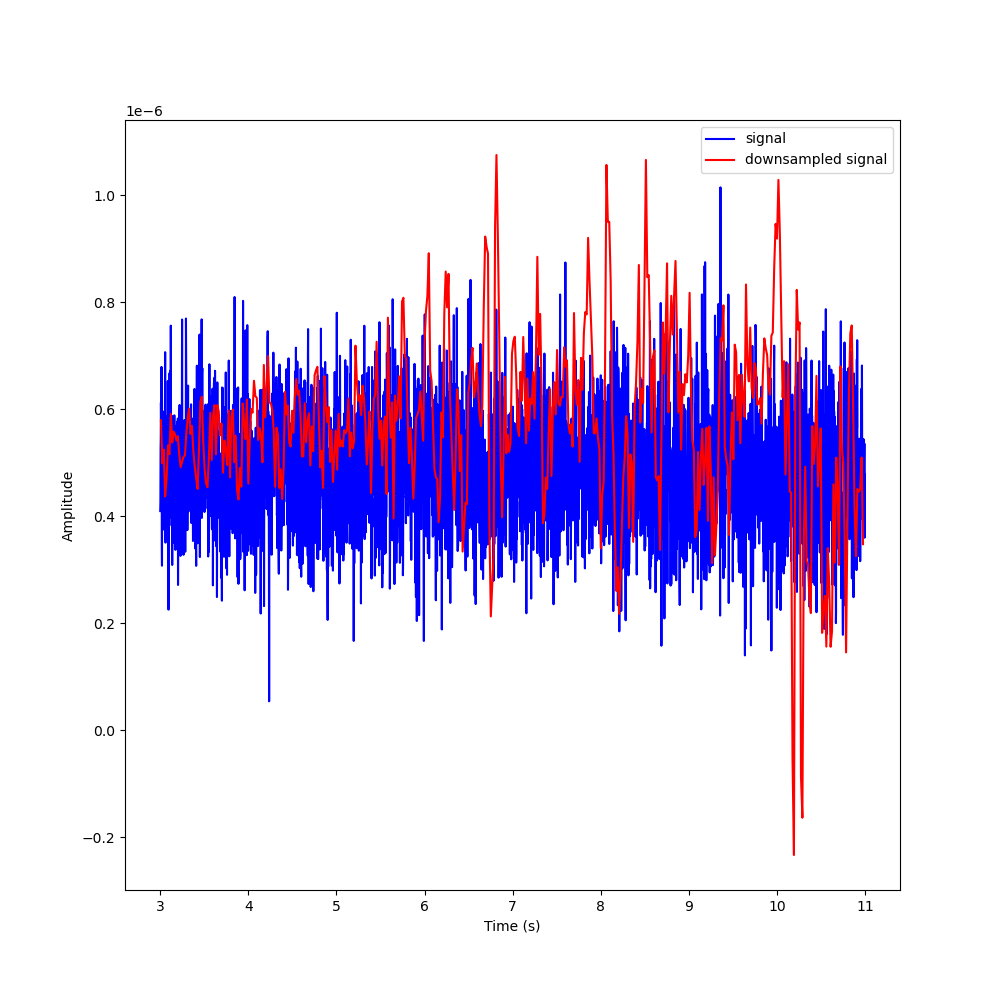
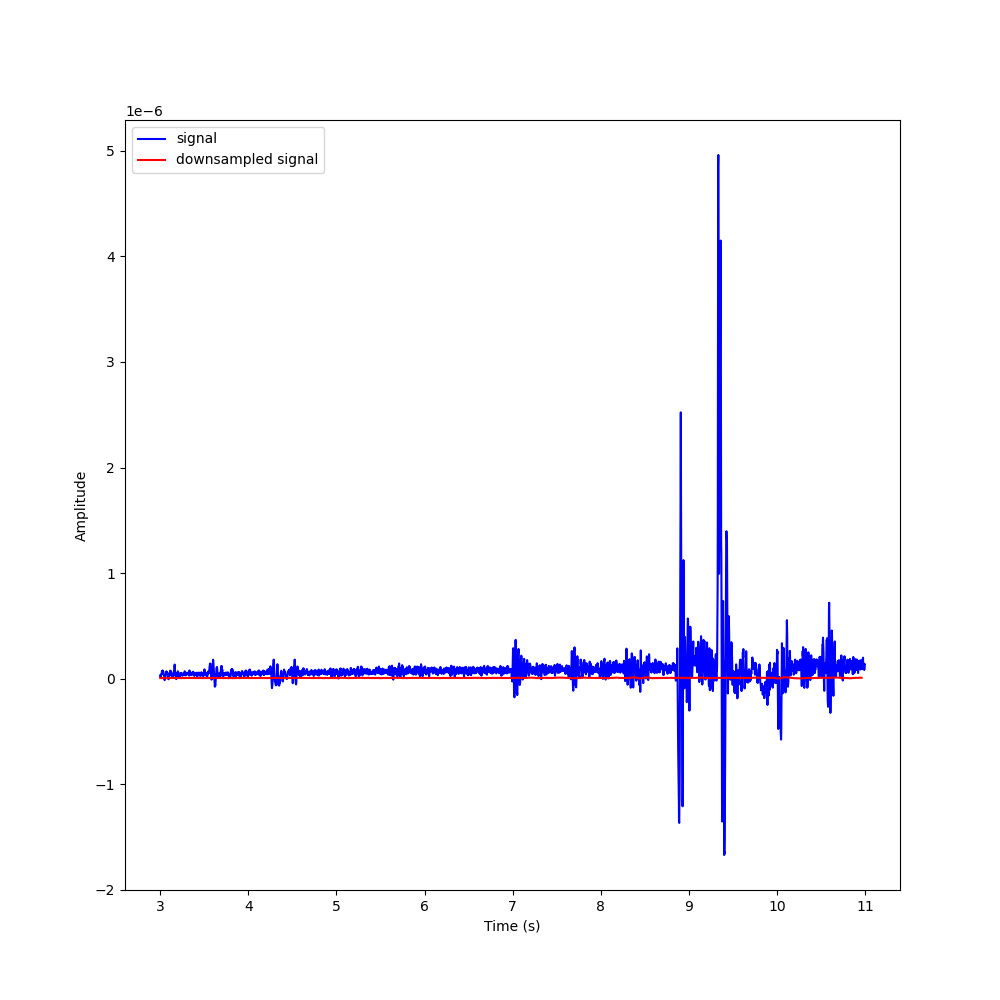
working on adding edge tapering to lowpass

diff --git a/SourceCode/lowpassDownsample.py b/SourceCode/lowpassDownsample.py
@@ -29,42 +29,36 @@ def runLowpassOnly(integerDownsampleFactor, filterOrder):
     time = np.linspace(0, sampling_duration, number_of_time_samples, endpoint=False);
     #downsampled_data = lowpassData[::integerDownsampleFactor);
     #downsampled_data = scipy.signal.decimate(lowpassData,integerDownsampleFactor,n=filterOrder);
-    print(cutoff_freq, file=sys.stderr);
+    #print(cutoff_freq, file=sys.stderr);
     return (time, data_T, lowpassData,number_of_time_samples,sampling_duration,sampling_freq)
 
-
-def runLowpassAndDownsample(integerDownsampleFactor):
+def fetchT15LocalServerData():
     client = server_func.setup_server();
     data, md = server_func.get_data(client,1);
     dT = md['dT'];
     sampling_freq = 1/dT;
-    data_T = np.transpose(data);
-    number_of_time_samples = md['nT'];
-    sampling_duration = number_of_time_samples * dT;
-    time = np.linspace(0, sampling_duration, number_of_time_samples, endpoint=False);
-    downsampled_signal = scipy.signal.decimate(data,integerDownsampleFactor);
-    newNumSamples = len(downsampled_signal[0]);
-    downsampled_time = np.linspace(0,sampling_duration,newNumSamples, endpoint=False);
-    return (time,data_T,downsampled_time, downsampled_signal,sampling_freq)
+    number_time_samples = md['nT'];
+    sampling_duration = number_time_samples * dT;
+    return (np.transpose(data), sampling_duration, number_time_samples,sampling_freq)  
 
-def runLowpassAndDownsampleWithFile(integerDownsampleFactor, fileName):
-    f = h5py.File(fileName, 'r')
-    #print list of attributes/metadata
-    #print(f.attrs.keys())
-    #print(f.keys())
-    group = f['data_product']
-    data = group['data'][()]
-    #print(data.shape)
-    dT = f.attrs['dt_computer']
-    #print(dT)
-    number_of_time_samples = f.attrs['nt']
-    #print(nT)
+def getFileData(fileName):
+    f = h5py.File(fileName, 'r');
+    group = f['data_product'];
+    data = group['data'][()];
+    dT = f.attrs['dt_computer'];
     sampling_freq = 1/dT;
+    number_time_samples = f.attrs['nt'];
+    sampling_duration = number_time_samples * dT;
+    return (data, sampling_duration, number_time_samples,sampling_freq)  
+
+def runLowpassAndDownsample(data, sampling_duration, number_time_samples, sampling_freq, integerDownsampleFactor):
     downsampled_sampling_freq = sampling_freq/integerDownsampleFactor
-    #print(sampling_freq)
-    data_T = np.transpose(data)
-    sampling_duration = number_of_time_samples * dT;
-    time = np.linspace(0, sampling_duration, number_of_time_samples, endpoint=False);
+    time = np.linspace(0, sampling_duration, number_time_samples, endpoint=False);
+    data_T = np.transpose(data);
+    #print(data_T.shape, file = sys.stderr);
+    n = len(data_T[0])
+    window = scipy.signal.cosine(n)
+    data_T *= window
     downsampled_signal = scipy.signal.decimate(data_T,integerDownsampleFactor);
     newNumSamples = len(downsampled_signal[0]);
     downsampled_time = np.linspace(0,sampling_duration,newNumSamples, endpoint=False);
@@ -80,7 +74,6 @@ def plotAmplitudeSpectrum(signal,downsampledSignal,channelNumber,signalFreq,down
     plt.xlabel("Frequency (Hz)");
     plt.ylabel("Amplitude");
     plt.close()
-
     plt.magnitude_spectrum(downsampledSignal[:,channelNumber],Fs=downsampledFreq)
     plt.savefig('figures/ampSpectrumDownsampled.png')
     plt.xlabel("Frequency (Hz)");
@@ -101,7 +94,7 @@ def plotAmplitudeSpectrum(signal,downsampledSignal,channelNumber,signalFreq,down
 
 
 
-def plotLowpass(time,signal,downsampleTime,downsampledSignal,channelNumber,startTime,endTime):
+def plotLowpassDownsample(time,signal,downsampleTime,downsampledSignal,channelNumber,startTime,endTime):
     temp = np.where(time >= startTime);
     first = min(min(temp));
     temp = np.where(time <= endTime);

diff --git a/Examples/lowpassAndDownsampleFileEx.py b/Examples/lowpassAndDownsampleFileEx.py
@@ -12,16 +12,16 @@ plt.switch_backend('agg')
 
 def main(argv):
 	fileName = argv[0]
-	integerDownsampleFactor = 8;
+	integerDownsampleFactor = 10;
+	#Get data
+	(data, sampling_duration, number_time_samples, sampling_freq) = lowpassDownsample.getFileData(fileName);
 	#Run lowpass filter and downsample 
-
-	(time, signal, downsample_time, downsample_signal, sample_freq, downsampled_sample_freq) = lowpassDownsample.runLowpassAndDownsampleWithFile(integerDownsampleFactor,fileName);
-	channelNumber = 60;
+	(time, signal, downsample_time, downsample_signal, sample_freq, downsampled_sample_freq) = lowpassDownsample.runLowpassAndDownsample(data, sampling_duration, number_time_samples,sampling_freq,integerDownsampleFactor);
+	channelNumber = 25;
 	startTime = 3.00;
 	endTime = 11.0;
-
 	#Plot lowpass filter on channelNumber
-	lowpassDownsample.plotLowpass(time,signal,downsample_time,downsample_signal,channelNumber,startTime,endTime);
+	lowpassDownsample.plotLowpassDownsample(time,signal,downsample_time,downsample_signal,channelNumber,startTime,endTime);
 	lowpassDownsample.plotAmplitudeSpectrum(signal, downsample_signal, channelNumber, sample_freq,downsampled_sample_freq);
 if __name__ == "__main__":
 	main(sys.argv[1:])
